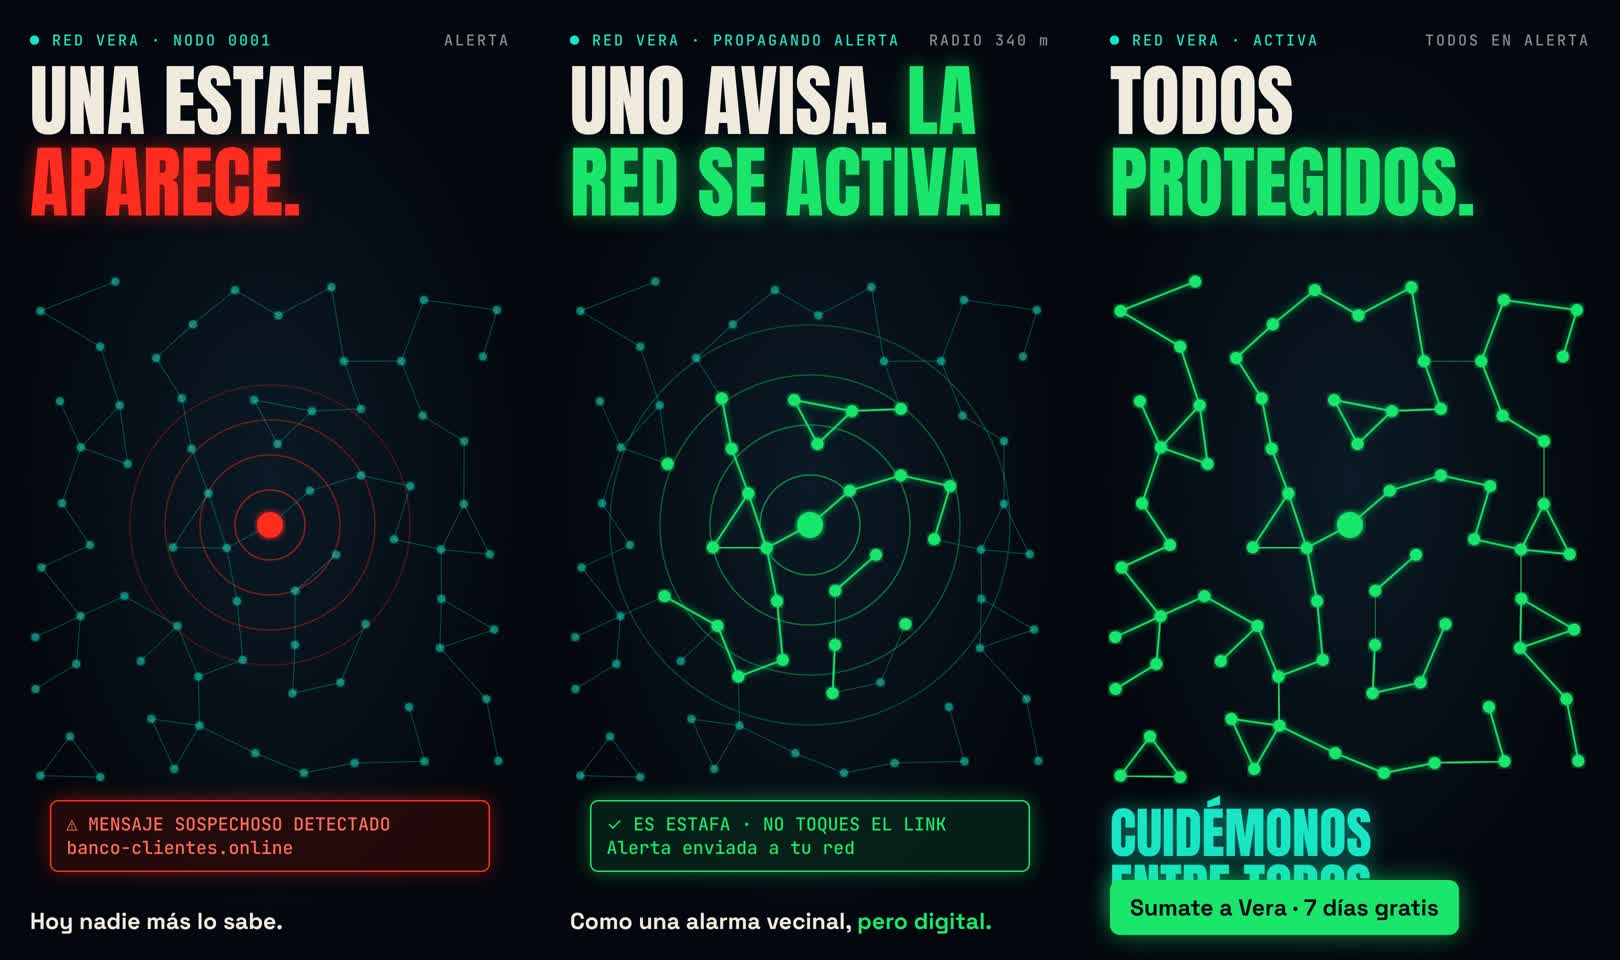
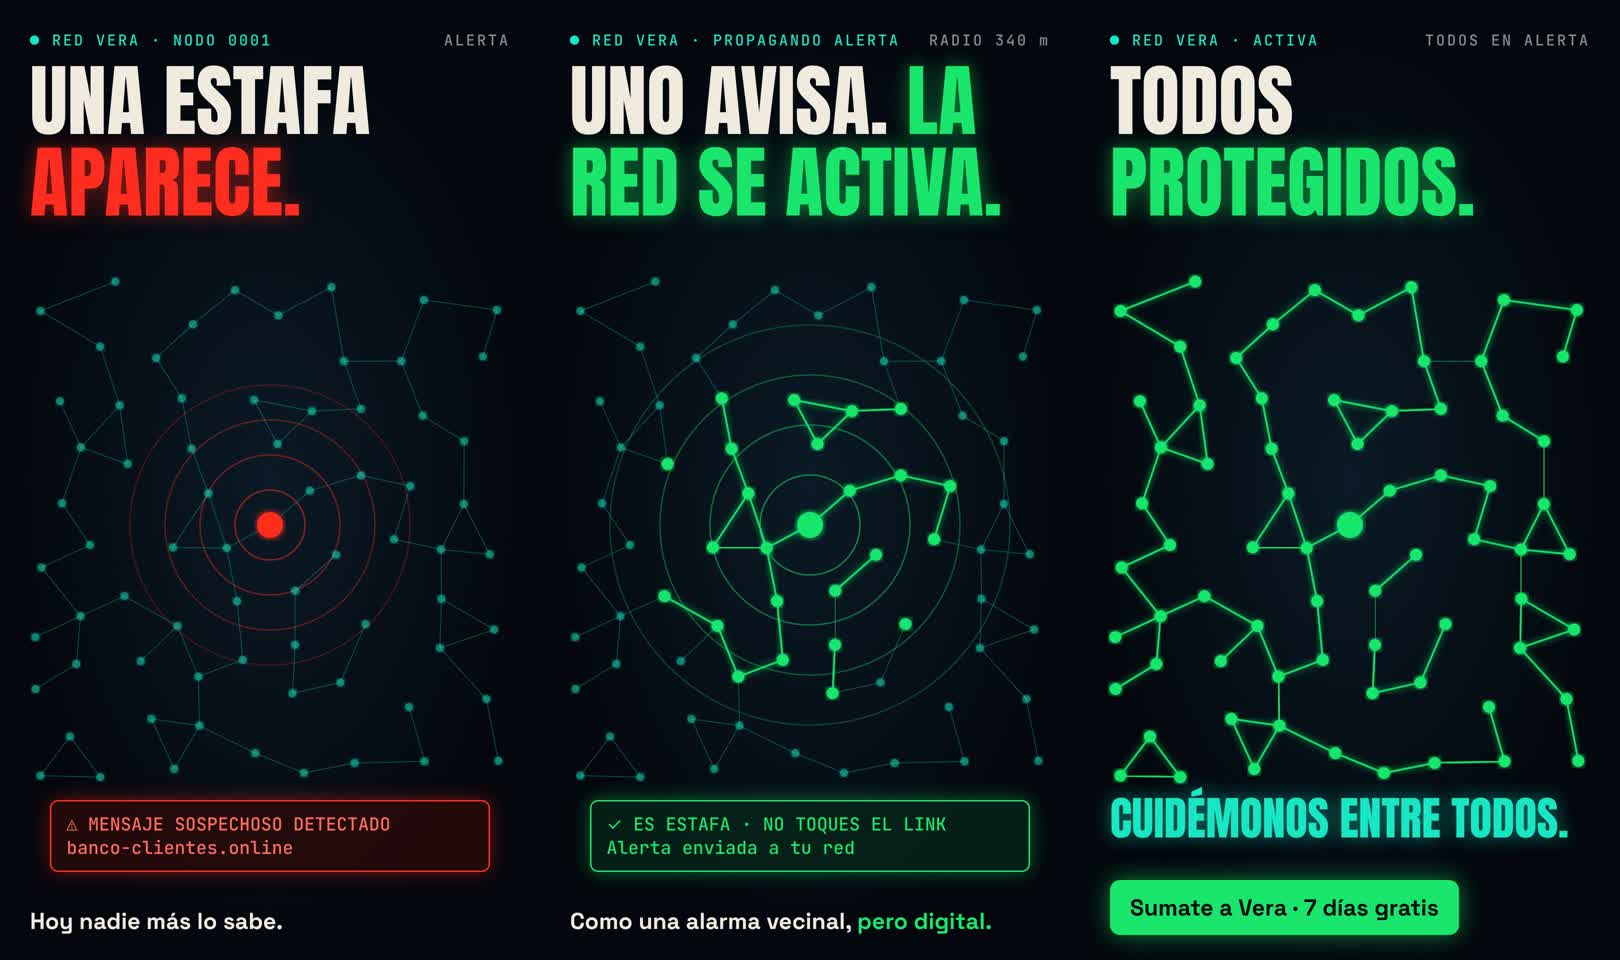
Redes: preview v4 del reel 2, ajuste del cierre
Claude-Session: https://claude.ai/code/session_01Fx8nG8n9zT2oynar78L9kM

Changed region(s): [[0.679, 0.8125, 0.9877, 0.9375]]

diff --git a/scripts/redes/propuestas/2026-11-16/f.html b/scripts/redes/propuestas/2026-11-16/f.html
@@ -25,6 +25,6 @@ N.forEach((p,i)=>{const isC=i==0;const on=lit(p);let col=isC?(n==1?'#ff2d1f':'#1
 svg+='</svg>';
 const T=['<div class=hud>● RED VERA · NODO 0001</div><div class=hud2>ALERTA</div><div class=t>Una estafa <span class=r>aparece.</span></div><div class="al">⚠ MENSAJE SOSPECHOSO DETECTADO<br>banco-clientes.online</div><div class=s>Hoy nadie más lo sabe.</div>',
 '<div class=hud>● RED VERA · PROPAGANDO ALERTA</div><div class=hud2>RADIO 340 m</div><div class=t>Uno avisa. <span class=g>La red se activa.</span></div><div class="al ok">✓ ES ESTAFA · NO TOQUES EL LINK<br>Alerta enviada a tu red</div><div class=s>Como una alarma vecinal, <b>pero digital.</b></div>',
-'<div class=hud>● RED VERA · ACTIVA</div><div class=hud2>TODOS EN ALERTA</div><div class=t>Todos <span class=g>protegidos.</span></div><div style="position:absolute;left:60px;right:60px;top:1610px;font:110px/1.02 AN;text-transform:uppercase;color:#19e6c4;text-shadow:0 0 40px #19e6c488">Cuidémonos<br>entre todos.</div><div class=cta>Sumate a Vera · 7 días gratis</div>'];
+'<div class=hud>● RED VERA · ACTIVA</div><div class=hud2>TODOS EN ALERTA</div><div class=t>Todos <span class=g>protegidos.</span></div><div style="position:absolute;left:60px;right:60px;top:1590px;font:92px/1.02 AN;text-transform:uppercase;color:#19e6c4;text-shadow:0 0 40px #19e6c488">Cuidémonos entre todos.</div><div class=cta>Sumate a Vera · 7 días gratis</div>'];
 A.innerHTML=svg+T[n-1];document.documentElement.setAttribute('data-listo',1)
 </script>
